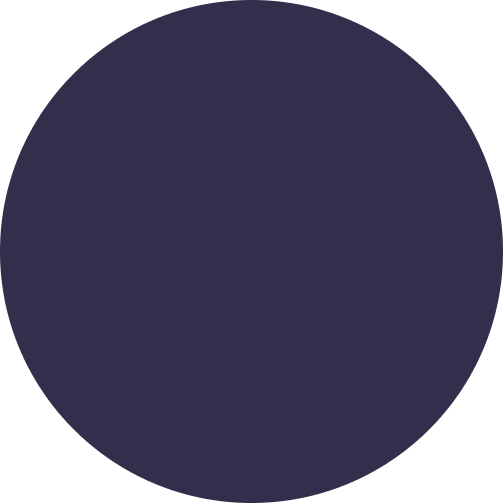
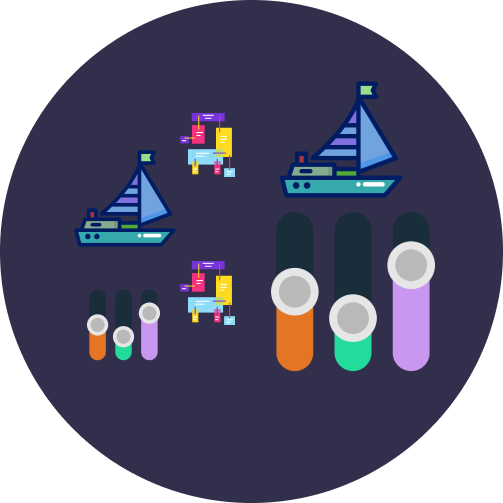
first-commit

diff --git a/src/Components/Services.jsx b/src/Components/Services.jsx
@@ -1,5 +1,10 @@
 import React from "react";
-
+import Ellipsea1 from "../Assets/Ellipse a1.png";
+import Ellipsea2 from "../Assets/Ellipse a2.png";
+import Arrow1 from "../Assets/Arrow 1.png";
+import Arrow2 from "../Assets/Arrow 2.png";
+import img1 from "../Assets/img bg-1.png";
+import img2 from "../Assets/img bg-2.png";
 const Services = () => {
   return (
     <div className="bg-[#181725] text-white text-center py-12 sm:py-24">
@@ -10,16 +15,209 @@ const Services = () => {
         Solutions
         <span className="text-[#1F70AF]"> Platform</span>
       </h1>
-      <div>
-        <div>
-          <div></div>
-          <div></div>
-          <div></div>
+      <div className="grid grid-cols-2 place-items-center mx-28 mt-36">
+        {/* card no 1 */}
+        <div className="flex bg-black rounded-xl justify-center items-center p-8 w-[90%]">
+          <div>
+            <img src={img1} alt="" />
+          </div>
+          <div className="text-left px-12">
+            <h1>Graphic Designing</h1>
+            <p>
+              Lorem Ipsum is simply dummy text of the printing and typesetting
+              industry.
+            </p>
+          </div>
+
+          <div className="relative">
+            <img src={Ellipsea1} alt="" />
+            <div className="absolute top-2 left-1">
+              <img src={Arrow1} alt="" />
+            </div>
+          </div>
         </div>
-        <div>
-          <div></div>
-          <div></div>
-          <div></div>
+        {/* card no 2 */}
+        <div className="flex bg-black rounded-xl justify-center items-center p-8 w-[90%]">
+          <div>
+            <img src={img2} alt="" />
+          </div>
+          <div className="text-left px-12">
+            <h1>Web & App Development</h1>
+            <p>
+              Lorem Ipsum is simply dummy text of the printing and typesetting
+              industry.
+            </p>
+          </div>
+          <div className="relative">
+            <img src={Ellipsea2} alt="" />
+            <div className="absolute top-2 left-1">
+              <img src={Arrow2} alt="" />
+            </div>
+          </div>
+        </div>
+      </div>
+      <div className="grid grid-cols-2 place-items-center mx-28 mt-8">
+        {/* card no 1 */}
+        <div className="flex bg-black rounded-xl justify-center items-center p-8 w-[90%]">
+          <div>
+            <img src={img1} alt="" />
+          </div>
+          <div className="text-left px-12">
+            <h1>Graphic Designing</h1>
+            <p>
+              Lorem Ipsum is simply dummy text of the printing and typesetting
+              industry.
+            </p>
+          </div>
+
+          <div className="relative">
+            <img src={Ellipsea1} alt="" />
+            <div className="absolute top-2 left-1">
+              <img src={Arrow1} alt="" />
+            </div>
+          </div>
+        </div>
+        {/* card no 2 */}
+        <div className="flex bg-black rounded-xl justify-center items-center p-8 w-[90%]">
+          <div>
+            <img src={img2} alt="" />
+          </div>
+          <div className="text-left px-12">
+            <h1>Web & App Development</h1>
+            <p>
+              Lorem Ipsum is simply dummy text of the printing and typesetting
+              industry.
+            </p>
+          </div>
+          <div className="relative">
+            <img src={Ellipsea2} alt="" />
+            <div className="absolute top-2 left-1">
+              <img src={Arrow2} alt="" />
+            </div>
+          </div>
+        </div>
+      </div>
+      <div className="grid grid-cols-2 place-items-center mx-28 mt-8">
+        {/* card no 1 */}
+        <div className="flex bg-black rounded-xl justify-center items-center p-8 w-[90%]">
+          <div>
+            <img src={img1} alt="" />
+          </div>
+          <div className="text-left px-12">
+            <h1>Graphic Designing</h1>
+            <p>
+              Lorem Ipsum is simply dummy text of the printing and typesetting
+              industry.
+            </p>
+          </div>
+
+          <div className="relative">
+            <img src={Ellipsea1} alt="" />
+            <div className="absolute top-2 left-1">
+              <img src={Arrow1} alt="" />
+            </div>
+          </div>
+        </div>
+        {/* card no 2 */}
+        <div className="flex bg-black rounded-xl justify-center items-center p-8 w-[90%]">
+          <div>
+            <img src={img2} alt="" />
+          </div>
+          <div className="text-left px-12">
+            <h1>Web & App Development</h1>
+            <p>
+              Lorem Ipsum is simply dummy text of the printing and typesetting
+              industry.
+            </p>
+          </div>
+          <div className="relative">
+            <img src={Ellipsea2} alt="" />
+            <div className="absolute top-2 left-1">
+              <img src={Arrow2} alt="" />
+            </div>
+          </div>
+        </div>
+      </div>
+      <div className="grid grid-cols-2 place-items-center mx-28 mt-8">
+        {/* card no 1 */}
+        <div className="flex bg-black rounded-xl justify-center items-center p-8 w-[90%]">
+          <div>
+            <img src={img1} alt="" />
+          </div>
+          <div className="text-left px-12">
+            <h1>Graphic Designing</h1>
+            <p>
+              Lorem Ipsum is simply dummy text of the printing and typesetting
+              industry.
+            </p>
+          </div>
+
+          <div className="relative">
+            <img src={Ellipsea1} alt="" />
+            <div className="absolute top-2 left-1">
+              <img src={Arrow1} alt="" />
+            </div>
+          </div>
+        </div>
+        {/* card no 2 */}
+        <div className="flex bg-black rounded-xl justify-center items-center p-8 w-[90%]">
+          <div>
+            <img src={img2} alt="" />
+          </div>
+          <div className="text-left px-12">
+            <h1>Web & App Development</h1>
+            <p>
+              Lorem Ipsum is simply dummy text of the printing and typesetting
+              industry.
+            </p>
+          </div>
+          <div className="relative">
+            <img src={Ellipsea2} alt="" />
+            <div className="absolute top-2 left-1">
+              <img src={Arrow2} alt="" />
+            </div>
+          </div>
+        </div>
+      </div>
+      <div className="grid grid-cols-2 place-items-center mx-28 mt-8">
+        {/* card no 1 */}
+        <div className="flex bg-black rounded-xl justify-center items-center p-8 w-[90%]">
+          <div>
+            <img src={img1} alt="" />
+          </div>
+          <div className="text-left px-12">
+            <h1>Graphic Designing</h1>
+            <p>
+              Lorem Ipsum is simply dummy text of the printing and typesetting
+              industry.
+            </p>
+          </div>
+
+          <div className="relative">
+            <img src={Ellipsea1} alt="" />
+            <div className="absolute top-2 left-1">
+              <img src={Arrow1} alt="" />
+            </div>
+          </div>
+        </div>
+        {/* card no 2 */}
+        <div className="flex bg-black rounded-xl justify-center items-center p-8 w-[90%]">
+          <div>
+            <img src={img2} alt="" />
+          </div>
+          <div className="text-left px-12">
+            <h1>Web & App Development</h1>
+            <p>
+              Lorem Ipsum is simply dummy text of the printing and typesetting
+              industry.
+            </p>
+          </div>
+          <div className="relative">
+            <img src={Ellipsea2} alt="" />
+            <div className="absolute top-2 left-1">
+              <img src={Arrow2} alt="" />
+            </div>
+          </div>
         </div>
       </div>
     </div>
